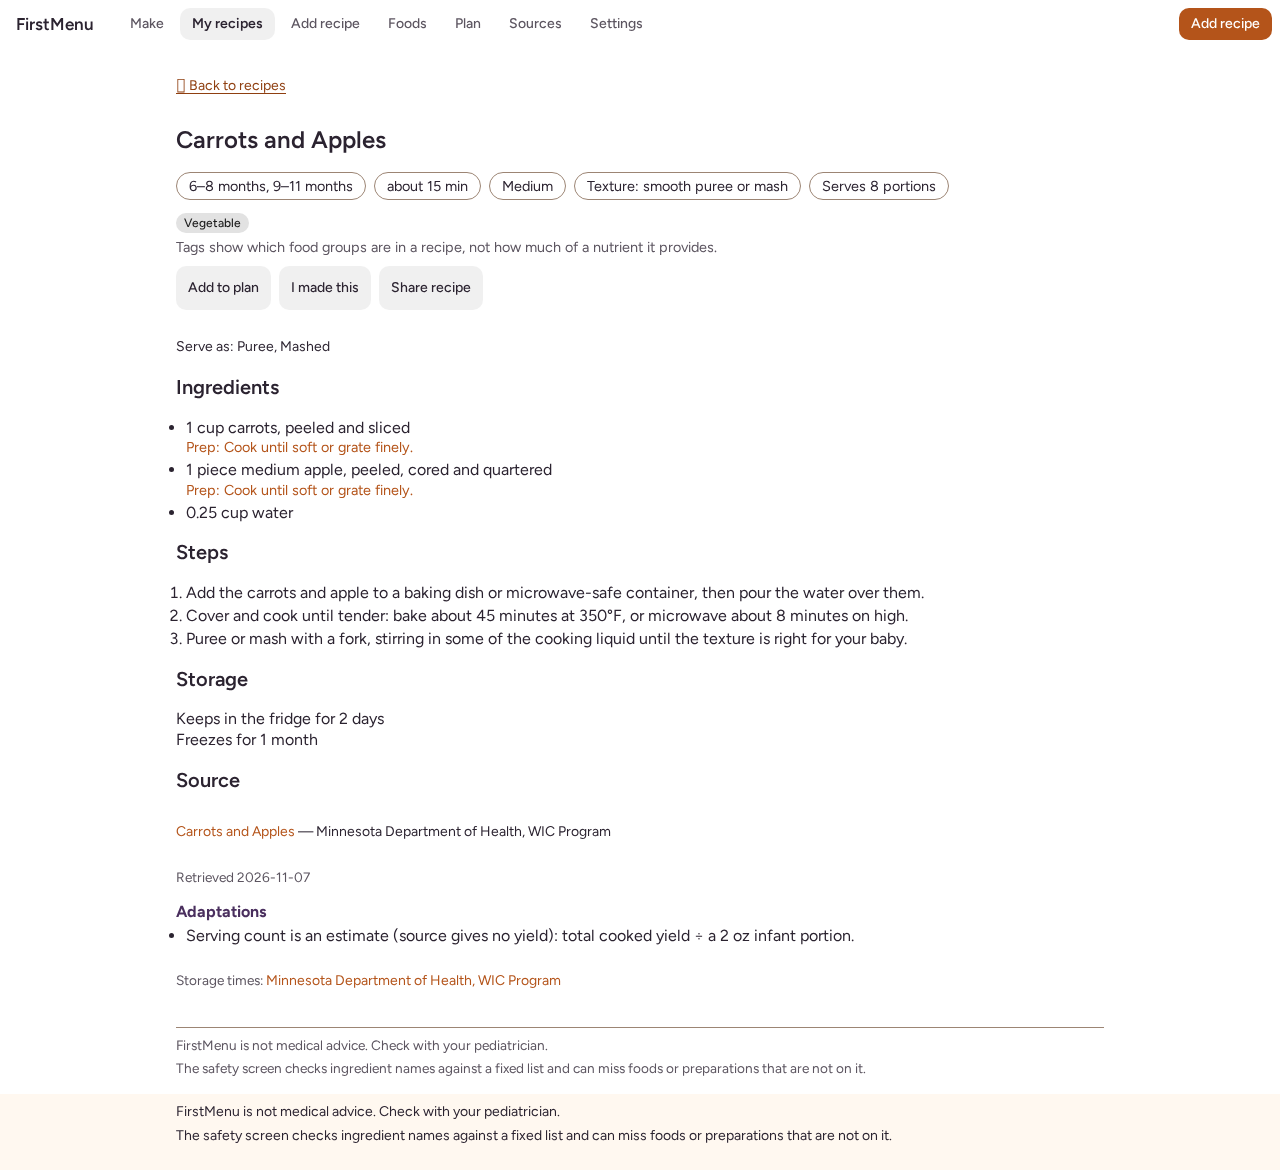
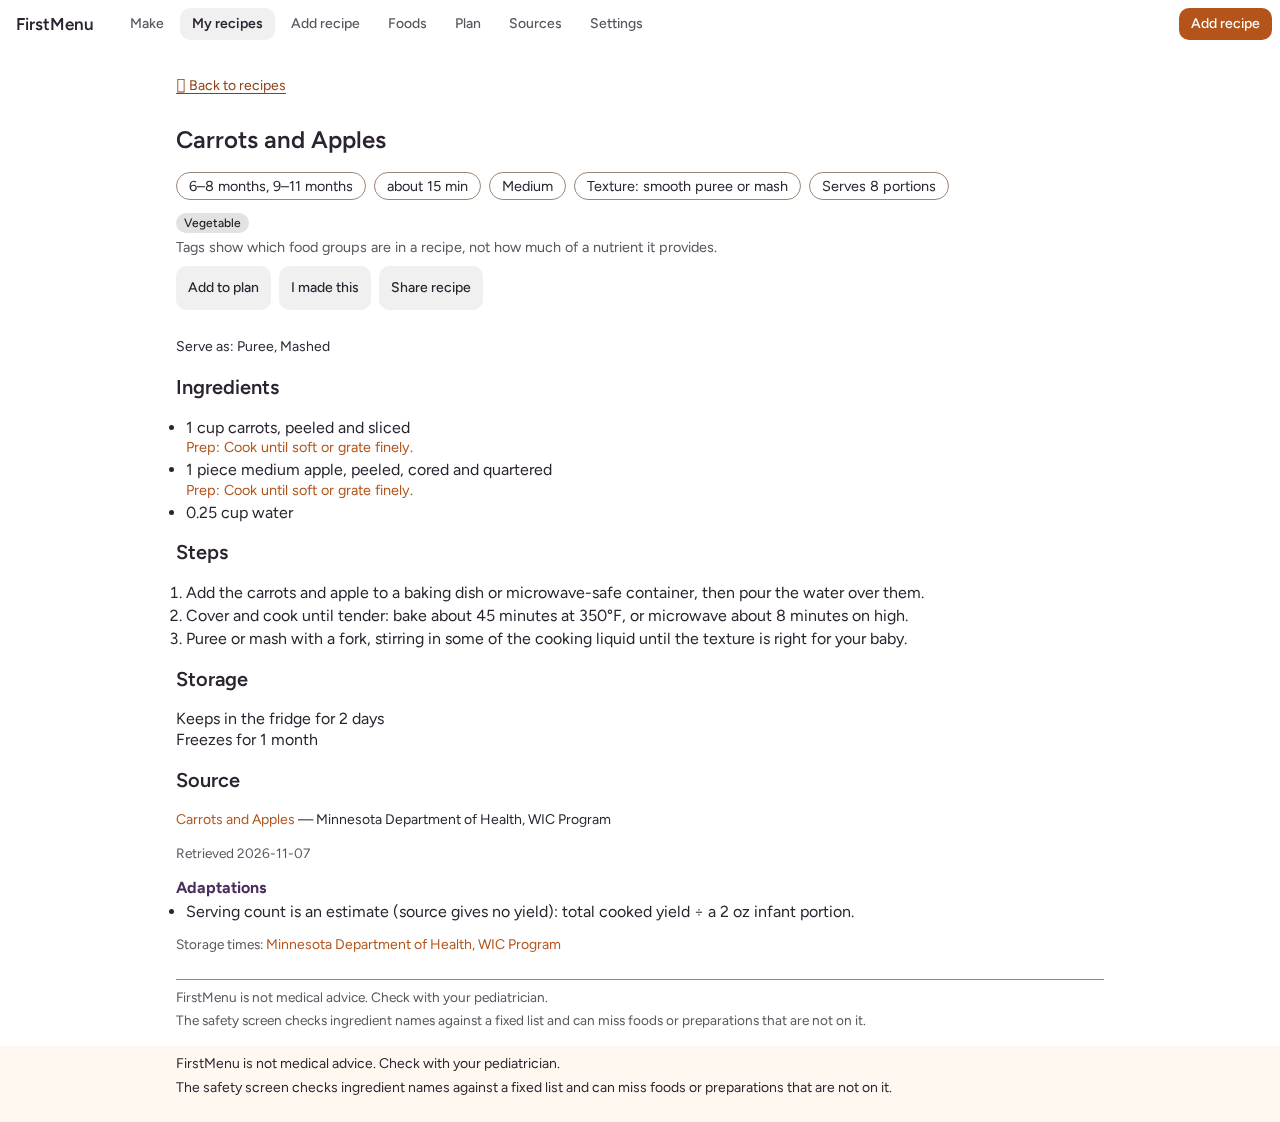
fix: keep the Source link inline so the wrapped Source line has no 44 px gap

diff --git a/src/ui/pages/RecipeDetail.module.css b/src/ui/pages/RecipeDetail.module.css
@@ -299,15 +299,9 @@
   margin: 0 0 var(--space);
 }
 
-/* 44 px targets on this page (buttons, source links). */
+/* 44 px targets on this page (buttons). The Source link sits inside a
+   sentence, so it stays inline (WCAG 2.5.8 exempts inline links). */
 .page button {
-  min-height: 44px;
-}
-
-.source a,
-.sourceLink {
-  display: inline-flex;
-  align-items: center;
   min-height: 44px;
 }
 

diff --git a/src/ui/pages/RecipeDetail.tsx b/src/ui/pages/RecipeDetail.tsx
@@ -428,7 +428,6 @@ export default function RecipeDetail() {
                 href={source.url}
                 target="_blank"
                 rel="noopener noreferrer"
-                className={styles.sourceLink}
               >
                 {source.title}
               </ExternalLink>
